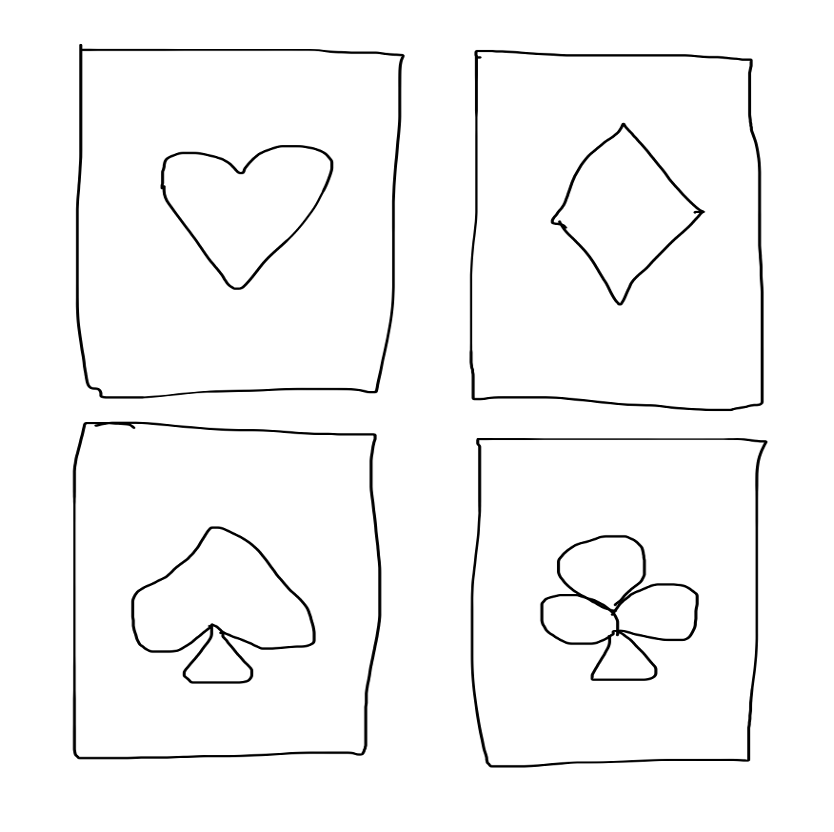
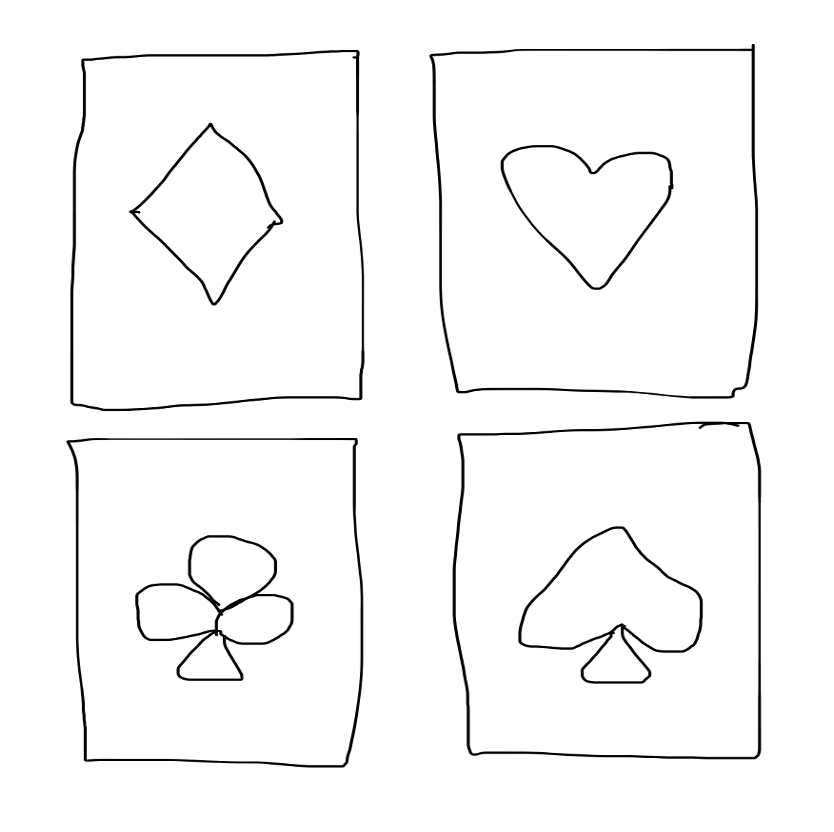
Added poster

diff --git a/levels/generators/bedroom.py b/levels/generators/bedroom.py
@@ -17,6 +17,14 @@ def bedroom(game: Game) -> Level:
     # create basic layout for bedroom level
     bedroom = Level(game)
     bedroom.add(*rect_room(0, 0, 5.75, 6.75, 4, game.materials['light_white']))
+    
+    # poster
+    bedroom.add(bsk.Node(
+        position = (4.75, 5, -2),
+        scale = (0.01, 1.2, 1.7),
+        rotation = glm.angleAxis(glm.pi() / 2, (1, 0, 0)),
+        material = game.materials['suits']
+    ))
 
     # locked box
     locked_box_interact = locked_box(bedroom)
@@ -127,7 +135,8 @@ def locked_box(level: Level) -> Interactable:
     node = bsk.Node(
         position = (3.5, 2.25, -4.35),
         scale = (0.5, 0.5, 0.5),
-        mesh = level.game.meshes['box_three']
+        mesh = level.game.meshes['box_three'],
+        material = level.game.materials['box_three']
     )
     locked_box = Interactable(level, node)        
     return locked_box
@@ -195,7 +204,7 @@ def locked_lid(bedroom: Level, locked_box: Interactable) -> Interactable:
     locked_lid = Interactable(bedroom, node)
     
     def check_func() -> bool:
-        return bedroom.game.key_down(bsk.pg.K_e) and locked_box.code == [2, 6, 3]
+        return bedroom.game.key_down(bsk.pg.K_e) and locked_box.code == [1, 6, 3]
     
     locked_lid.passive = lerp_difference(locked_lid, node = parent, time = 0.25, delta_rotation = glm.angleAxis(glm.pi() / 2, (1, 0, 0)))
     locked_lid.active = lerp_interact(locked_lid, check_func = check_func)

diff --git a/game.py b/game.py
@@ -42,6 +42,8 @@ class Game():
             'picture_frame' : bsk.Material(texture = images['uv_map.png']),
             'john' : bsk.Material(texture = images['john.png']),
             'wheel_eight' : bsk.Material(texture = images['wheel_eight.png']),
+            'box_three' : bsk.Material(texture = images['box_three.png']),
+            'suits' : bsk.Material(texture = images['suits.png']),
             'red' : bsk.Material(color = (255, saturation, saturation)),
             'green' : bsk.Material(color = (saturation, 255, saturation)),
             'blue' : bsk.Material(color = (saturation, saturation, 255)),
